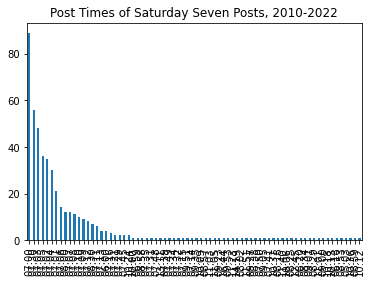
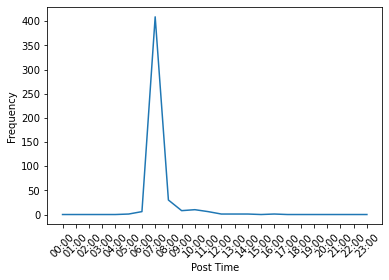
Post Time graphs

Changed region(s): [[0.0, 0.0, 1.0, 1.0], [0.4151, 0.3714, 0.9488, 0.7714]]

diff --git a/README.md b/README.md
@@ -92,7 +92,11 @@ The wordcloud above, represents the topics that Guido Fawkes talks about most fr
 
 ### Post Time
 
-Finally we look at the time at which these Saturday Seven Posts are made, below we create a Histogram to show this:
+Finally we look at the time at which these Saturday Seven Posts are made, below we create a line graph to demonstate the hour in which these posts were made. Times use the 24-hour clock.
+
+![post times line graph](images/post_times.png)
+
+We see that the vast majority of posts were made between 07:00 and 08:00, 85.9% (3 s.f.) to be precise, whereas few other hours had posts made in at all.
 
 ## File List
 
